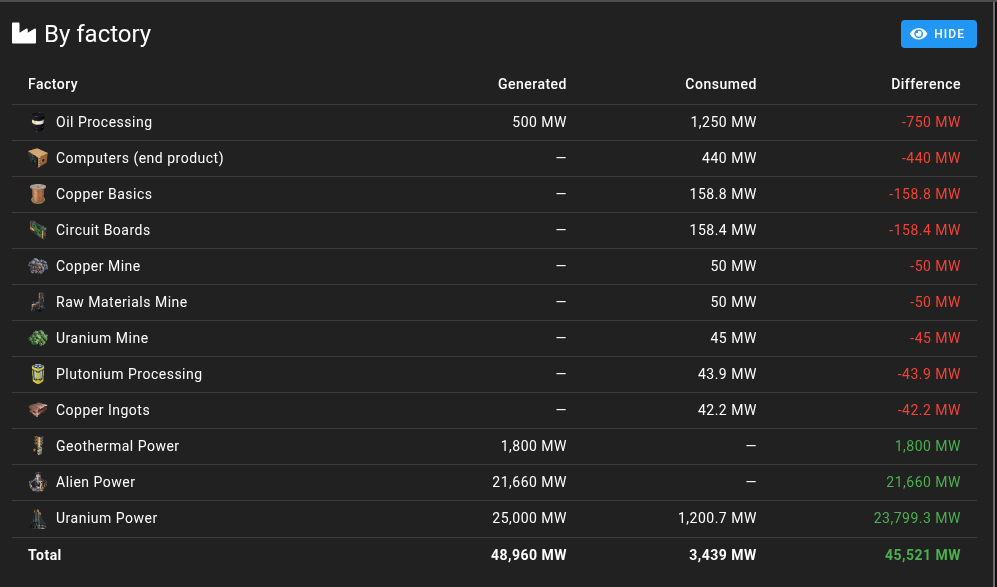
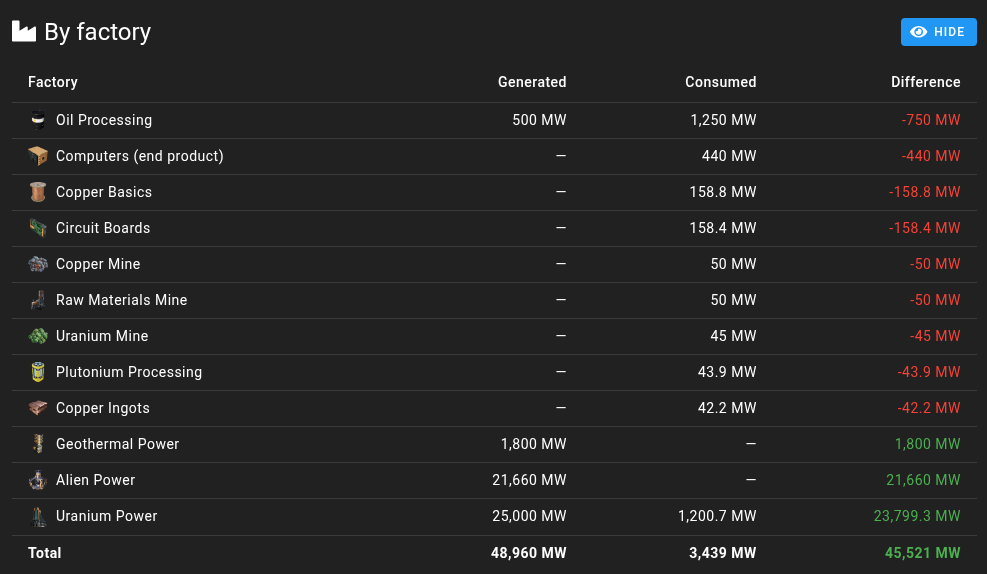
feat(web): search the Item Production table
28 items on the demo plan and a good deal more on a real one, so finding a
single item meant reading the list. Matches on the item's display name,
punctuation-insensitively as the icon picker does — the game writes "Mk.5" and
nobody types the dot.

The filter counts follow the search rather than the whole plan, so they say how
many match both instead of promising rows the search is hiding.

Also gives the filter row a margin off the section heading, which it was sitting
flush against, and refreshes the capture.

diff --git a/web/src/components/planner/StatisticsItemsDifference.vue b/web/src/components/planner/StatisticsItemsDifference.vue
@@ -44,10 +44,11 @@
       <i class="fas fa-info-circle" /> Every item your plan makes or consumes, and whether it has
       any spare. Red needs producing more of, green can be stored or sunk.
     </p>
-    <div class="d-flex flex-wrap ga-2 mb-3">
+    <div class="d-flex flex-wrap align-center ga-2 mt-3 mb-3">
       <!-- Each filter wears the colour it selects, so the buttons read as the same language as
            the rows. Unselected is the same colour outlined rather than a neutral grey, which
-           would make an unselected Deficit look like a disabled one. -->
+           would make an unselected Deficit look like a disabled one. The counts follow the
+           search, so they say how many match both rather than promising rows the search hides. -->
       <v-btn
         v-for="option in filters"
         :key="option.value"
@@ -58,6 +59,17 @@
       >
         {{ option.label }} ({{ option.count }})
       </v-btn>
+      <v-text-field
+        id="stats-items-search"
+        v-model="search"
+        class="item-search ml-auto"
+        clearable
+        density="compact"
+        hide-details
+        placeholder="Search items"
+        prepend-inner-icon="fas fa-search"
+        variant="outlined"
+      />
     </div>
     <v-table
       v-if="factoryProductDifferences.length > 0"
@@ -109,7 +121,7 @@
         </tr>
       </tbody>
     </v-table>
-    <p v-else class="text-body-1">Nothing to show for this filter.</p>
+    <p v-else class="text-body-1">{{ search ? `No items match "${search}".` : 'Nothing to show for this filter.' }}</p>
   </template>
 </template>
 
@@ -140,19 +152,32 @@
 
   type ItemFilter = 'all' | 'surplus' | 'deficit' | 'balanced'
   const filter = ref<ItemFilter>('all')
+  const search = ref('')
+
+  // Punctuation-insensitive, the way the icon picker's search is: the game writes "Mk.5" and
+  // nobody types the dot.
+  const normalise = (value: string) => value.toLowerCase().replace(/[^a-z0-9]/g, '')
+
+  const matchesSearch = computed(() => {
+    const term = normalise(search.value ?? '')
+    if (!term) return () => true
+    return (item: { id: string }) => normalise(getPartDisplayName(item.id)).includes(term)
+  })
+
+  const searched = computed(() => allItems.value.filter(matchesSearch.value))
 
   const filters = computed(() => [
-    { value: 'all' as const, label: 'All', count: allItems.value.length, color: 'primary' },
-    { value: 'surplus' as const, label: 'Surplus', count: surplusCount.value, color: 'success' },
-    { value: 'deficit' as const, label: 'Deficit', count: deficitCount.value, color: 'error' },
-    { value: 'balanced' as const, label: 'Balanced', count: balancedCount.value, color: 'grey' },
+    { value: 'all' as const, label: 'All', count: searched.value.length, color: 'primary' },
+    { value: 'surplus' as const, label: 'Surplus', count: searched.value.filter(item => item.amountRemaining > 0).length, color: 'success' },
+    { value: 'deficit' as const, label: 'Deficit', count: searched.value.filter(item => item.amountRemaining < 0).length, color: 'error' },
+    { value: 'balanced' as const, label: 'Balanced', count: searched.value.filter(item => item.amountRemaining === 0).length, color: 'grey' },
   ])
 
   const factoryProductDifferences = computed(() => {
-    if (filter.value === 'surplus') return allItems.value.filter(item => item.amountRemaining > 0)
-    if (filter.value === 'deficit') return allItems.value.filter(item => item.amountRemaining < 0)
-    if (filter.value === 'balanced') return allItems.value.filter(item => item.amountRemaining === 0)
-    return allItems.value
+    if (filter.value === 'surplus') return searched.value.filter(item => item.amountRemaining > 0)
+    if (filter.value === 'deficit') return searched.value.filter(item => item.amountRemaining < 0)
+    if (filter.value === 'balanced') return searched.value.filter(item => item.amountRemaining === 0)
+    return searched.value
   })
 
   const amountClass = (amount: number) => {
@@ -175,6 +200,11 @@
 </script>
 
 <style lang="scss" scoped>
+// Wide enough for an item name, and no wider — it shares the row with four filter buttons.
+.item-search {
+  max-width: 260px;
+}
+
 .stats-table {
   background-color: transparent;
 

diff --git a/web/src/components/SplashV6.vue b/web/src/components/SplashV6.vue
@@ -302,7 +302,7 @@
             <li>Click the icon in the card header or the sidebar to pick one. <i>Use default</i> puts the generic glyph back.</li>
             <li>If we don't have the icon you want, emoji in the factory's <b>name</b> still work — they just won't appear as the icon elsewhere in the plan.</li>
           </ul>
-          <p class="mb-2">Once a plan is wearing them, its imports and exports read at a glance:</p>
+          <p class="mb-2">Once a plan is using them, its imports and exports read at a glance:</p>
           <v-img
             v-if="hasIconsExportsShot"
             alt="A factory's imports and exports, each chip carrying the icon of the factory it names"
@@ -356,8 +356,8 @@
           <h4 class="text-subtitle-1 font-weight-bold mt-4 mb-2">Item Production</h4>
           <p class="mb-2">
             Every item the plan makes or uses, in one table — <b>Product Surplus &amp; Deficit</b>
-            and <b>Produced Items</b> were two lists of the same items. Filter by surplus, deficit
-            or balanced. Each row names the factories producing the item in green and any factory
+            and <b>Produced Items</b> were two lists of the same items. Search it, or filter by surplus,
+            deficit or balanced. Each row names the factories producing the item in green and any factory
             short of it in red; click a chip to jump there.
           </p>
           <h4 class="text-subtitle-1 font-weight-bold mt-4 mb-2">Building Summary</h4>

diff --git a/web/src/pages/changelog.vue b/web/src/pages/changelog.vue
@@ -128,7 +128,7 @@
 
         <h2>👍 <i class="fas fa-chart-line ml-1" /><span class="ml-2">Statistics enhancements</span></h2>
         <h3>Item Production</h3>
-        <p><b>Product Surplus &amp; Deficit and Produced Items are now one section.</b> They listed the same items twice — one showing the balance, the other the supply. Item Production lists every item, with filters for surplus, deficit and balanced and a count of each in the header. The "Show all Products" toggle has gone with the section it controlled.</p>
+        <p><b>Product Surplus &amp; Deficit and Produced Items are now one section.</b> They listed the same items twice — one showing the balance, the other the supply. Item Production lists every item, with a search box and filters for surplus, deficit and balanced. The filter counts follow the search, so they say how many match both. The "Show all Products" toggle has gone with the section it controlled.</p>
         <v-img
           alt="The Item Production table, with each item broken down by factory"
           max-width="1200"

diff --git a/CHANGELOG.md b/CHANGELOG.md
@@ -138,7 +138,7 @@ All notable changes to this project are documented in this file. It mirrors the 
 ### Improved — Statistics say where a number came from
 
 - **Raw Resources counts what the plan digs up, and is a table.** It used to read the raw supply the planner was assuming on your behalf, so with the assumption gone it had nothing to read and sat empty on exactly the plans that mine properly — the Demo plan included. It now sums every product whose part is a raw resource, whatever produced it: Copper Ore 360/min, Crude Oil 960/min, Limestone 180/min, Sulfur 240/min, Uranium 240/min and Water 2,640/min on the Demo plan. Consuming a resource is not extracting it, so a factory importing ore does not count that ore a second time.
-- **Product Surplus & Deficit and Produced Items are now one section, Item Production.** They listed the same items twice — one with the balance, one with the supply. It lists every item, with filters for surplus, deficit and balanced, and counts for each in the header. The "Show all Products" toggle is gone with the section it controlled.
+- **Product Surplus & Deficit and Produced Items are now one section, Item Production.** They listed the same items twice — one with the balance, one with the supply. It lists every item, with a search box and filters for surplus, deficit and balanced. The filter counts follow the search. The "Show all Products" toggle is gone with the section it controlled.
 - **Item Production and Raw Resources are tables**, and say where each item comes from. Every factory producing it is listed with what it makes, in green, alongside any factory short of it, in red. Click a chip to jump there.
 - **Building Summary is a table too**, listing every factory that holds each building type and how many stand in it. A building requirement that has dropped to zero is no longer counted.
 - **Power Consumption and Generation gains a per-factory breakdown**, collapsed by default so the plan-level figures it sits under are still the first thing you read. Generated, consumed and the difference for each factory, heaviest net drain first — the factory worth looking at is the one costing the most, not whichever the plan happens to list first — and a row click jumps to it. Deliberately simpler than the tables above it: no minimum and maximum columns, because the question here is which factory is costing what.
